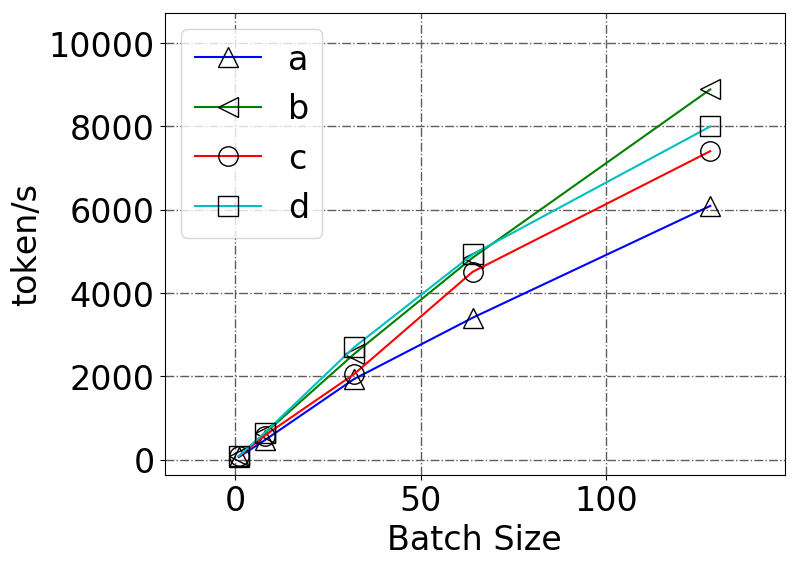
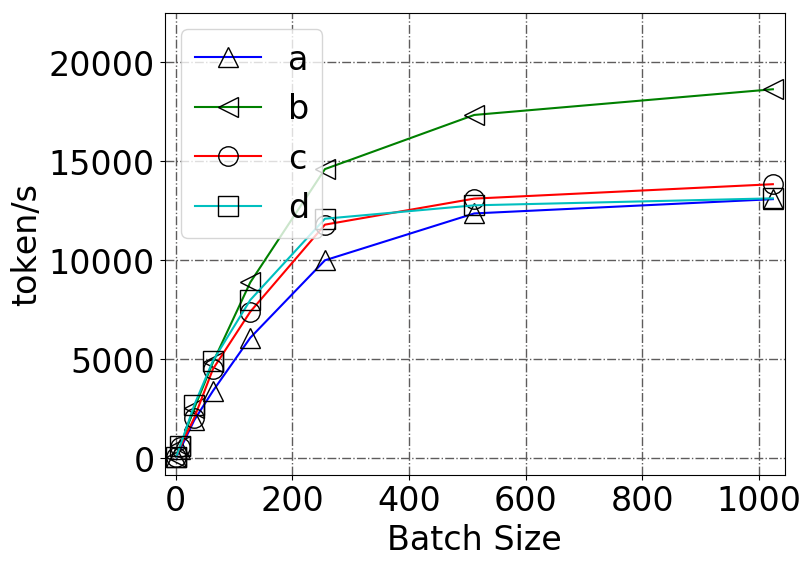
polish plots.

diff --git a/extractor.py b/extractor.py
@@ -23,11 +23,12 @@ def extract_data(filename):
 
     wb = load_workbook(filename, data_only=True)
 
+    batchsizes = [1, 8, 32, 64, 128, 256, 512, 1024]
+
     df = extract_batch(wb['bs1'], 1)
-    df = df.append(extract_batch(wb['bs8'], 8))
-    df = df.append(extract_batch(wb['bs32'], 32))
-    df = df.append(extract_batch(wb['bs64'], 64))
-    df = df.append(extract_batch(wb['bs128'], 128))
+
+    for idx in range(1, len(batchsizes)):
+        df = df.append(extract_batch(wb['bs%d' % batchsizes[idx]], batchsizes[idx]))
     print(df)
 
     return df 
